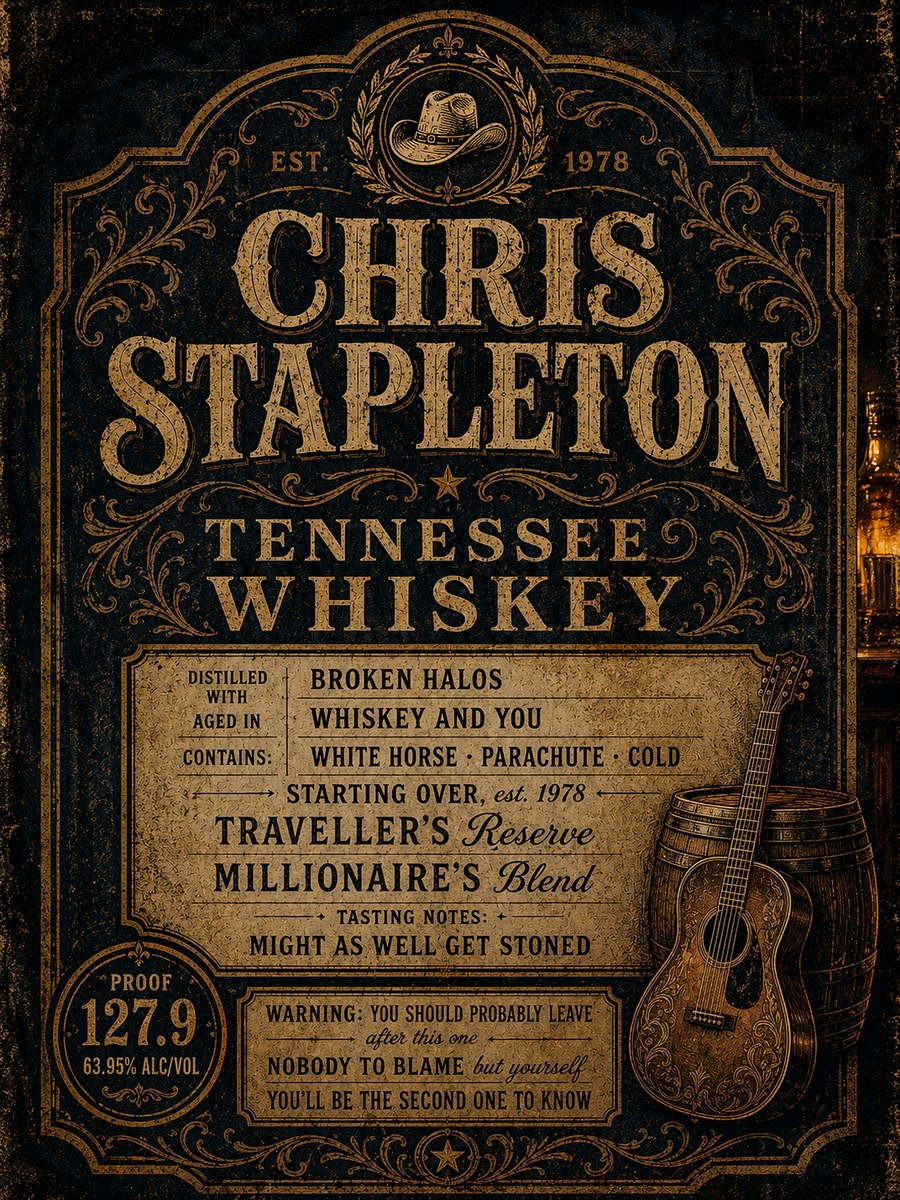
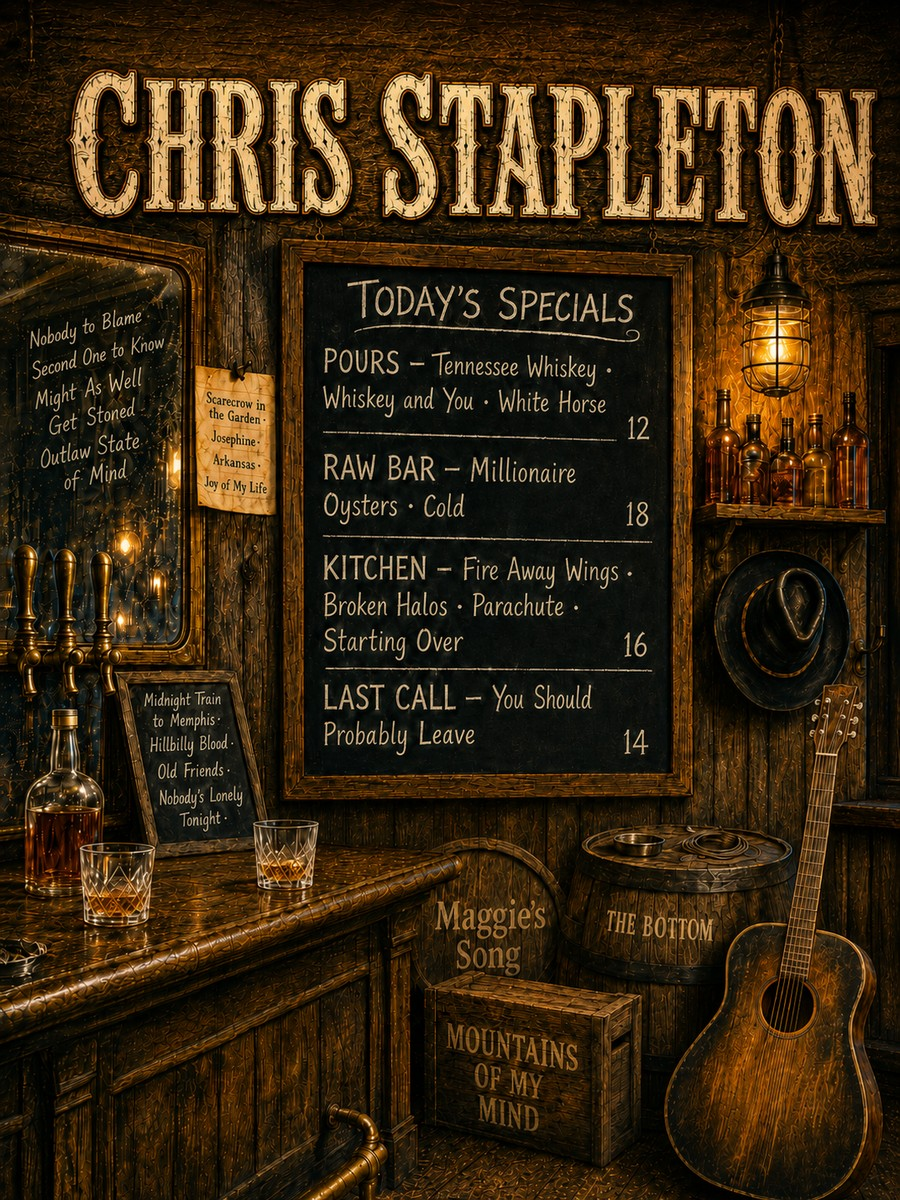
v250: Chris Stapleton is a bar, not a bottle
The strongest finding in the trademark audit, closed. The old poster was drawn
as a whiskey bottle label - brand name over product type, EST. 1978, DISTILLED
WITH / AGED IN / CONTAINS fields, TASTING NOTES, PROOF 127.9 and 63.95% ALC/VOL,
a warning block, and an engraved border wrapping the whole canvas. Every word on
it was a song title and it still read as a Chris Stapleton whiskey, because form
carries meaning content does not override. He has a real one with Buffalo Trace,
and the old poster even carried its brand name: TRAVELLER'S Reserve.

Not editable - the label was 100% of the composition and the panels alone were
32% of the canvas, so subtracting them left a hole with no scene behind it.
Regenerated as a roadhouse bar with a specials board hanging in it. Two things
make that a menu rather than a relabelled label:

  - the board is an OBJECT IN A ROOM. Bar, taps, mirror, bottles, hat, guitar,
    barrel, crate and lamp are all visible around it. A board filling the canvas
    would have been the same problem wearing a different hat.
  - CHRIS STAPLETON is the POSTER's title, painted above and outside the board.
    Lettered onto the menu it would have become his bar, and celebrity bars are
    a real category - the same trap one step sideways.

25 song titles, up from 11, spread over five surfaces so none of them garble:
10 on the board, 4 chalked on the mirror, 4 on a pinned paper card, 4 on a slate
[…]

diff --git a/index.html b/index.html
@@ -911,7 +911,7 @@ function eraOf(v){ return ERA[v.id]||'neon'; }
    page arrives with ?open=, so the lookup returned '0' and every plate URL was busted
    with ?v=0 forever - an updated plate would never reach anyone who had opened that
    sheet once. Kept in step with the printed build tag by the release step. */
-var SFSBUILD='v249';
+var SFSBUILD='v250';
 var CARDART={"adele":{"o":"#F4A330"},"arianagrande":{"o":"#FFF6E0","l":1},"ate":{"o":"#DAA459"},"beatles":{"o":"#FFF6E0","l":1},"beyonce":{"o":"#FDB728"},"biggie":{"o":"#FDC472"},"billieeilish":{"o":"#B9C709"},"billyjoel":{"o":"#DBB17D"},"bonjovi":{"o":"#FFF6E0","l":1},"bowie":{"o":"#F7AF7C"},"brunomars":{"o":"#FEA928"},"carrieunderwood":{"o":"#D9B87A"},"ccr":{"o":"#F2C772"},"chrisstapleton":{"o":"#F2BA7D"},"codyjohnson":{"o":"#85C9EB"},"coldplay":{"o":"#E9BA87"},"dmb":{"o":"#2A1305"},"dualipa":{"o":"#A3ABC1"},"eagles":{"o":"#261C12"},"edsheeran":{"o":"#ECAB84"},"ellalangley":{"o":"#F1987E"},"eminem":{"o":"#D1B99F"},"faithhill":{"o":"#F3A63D"},"fleetwoodmac":{"o":"#BEC5C8"},"foo":{"o":"#F69F6D"},"fthc":{"o":"#3D3717"},"gratefuldead":{"o":"#FFF6E0","l":1},"greenday":{"o":"#CEB799"},"grunge90s":{"o":"#EFC973"},"harrystyles":{"o":"#F99B37"},"hendrix":{"o":"#FFF6E0","l":1},"jasonaldean":{"o":"#EAAE5F"},"jellyroll":{"o":"#301407"},"justintimberlake":{"o":"#B1C1D3"},"katyperry":{"o":"#3DC2D8"},"kennychesney":{"o":"#F6C587"},"kidstoybox":{"o":"#002848"},"ladygaga":{"o":"#FFBD46"},"laineywilson":{"o":"#FFF6E0","l":1},"ledzeppelin":{"o":"#E6AE57"},"lukebryan":{"o":"#332818"},"lukecombs":{"o":"#F19F31"},"maroon5":{"o":"#642F09"},"metallica":{"o":"#EABE95"},"morganwallen":{"o":"#DB9D94"},"mv_action":{"o":"#F0AD51"},"mv_animated":{"o":"#FFF6E0","l":1},"mv_comedy":{"o":"#FFF6E0","l":1},"mv_crime":{"o":"#F0AF37"},"mv_drama":{"o":"#DCA969"},"mv_fantasy":{"o":"#FAAA41"},"mv_horror":{"o":"#DBC27D"},"mv_romance":{"o":"#FFF6E0","l":1},"mv_scifi":{"o":"#26BDF5"},"mv_sports":{"o":"#FFF6E0","l":1},"mv_superhero":{"o":"#1C1B26"},"mv_war":{"o":"#1F150C"},"nirvana":{"o":"#CACACB"},"oasis":{"o":"#DDBA92"},"onedirection":{"o":"#F4A62D"},"pearljam":{"o":"#FFF6E0","l":1},"postmalone":{"o":"#FBA874"},"queen":{"o":"#F1BE78"},"rhcp":{"o":"#FFF6E0","l":1},"rihanna":{"o":"#BBAB97"},"selenagomez":{"o":"#FFF6E0","l":1},"shaboozey":{"o":"#DEB177"},"smashingpumpkins":{"o":"#BCAEC2"},"springsteen":{"o":"#E6A59C"},"stones":{"o":"#FFF6E0","l":1},"stp":{"o":"#FFF6E0","l":1},"summerbeach":{"o":"#FFF6E0","l":1},"taylorswift":{"o":"#D4A26D"},"thewho":{"o":"#F0C382"},"timmcgraw":{"o":"#251C0A"},"tompetty":{"o":"#FFF6E0","l":1},"tv_binge":{"o":"#D9B87A"},"tv_cartoon":{"o":"#171F6C"},"tv_gameshow":{"o":"#000B4D"},"tv_growingup":{"o":"#86B6F7"},"tv_oldschool":{"o":"#D9B87A"},"tv_scifi":{"o":"#66BBF7"},"tv_sitcom":{"o":"#C8AE93"},"u2":{"o":"#7EC0F2"},"zachbryan":{"o":"#191F15"}};
 function coverHTML(v,label){
  var e=eraOf(v);
@@ -1489,4 +1489,4 @@ brandBarState();
  setTimeout(go, 1500);
 })();
 </script>
-<div id="buildtag">v249</div><style>#buildtag{position:fixed;left:5px;bottom:3px;z-index:99999;font:700 9px/1 system-ui,sans-serif;color:rgba(255,255,255,.30);pointer-events:none;letter-spacing:.5px}</style></body></html>
+<div id="buildtag">v250</div><style>#buildtag{position:fixed;left:5px;bottom:3px;z-index:99999;font:700 9px/1 system-ui,sans-serif;color:rgba(255,255,255,.30);pointer-events:none;letter-spacing:.5px}</style></body></html>

diff --git a/sw.js b/sw.js
@@ -1,4 +1,4 @@
-var CACHE='sfs-v249';
+var CACHE='sfs-v250';
 /* IMPORTANT: do NOT precache the HTML documents. If the app shell is cached, an installed PWA
    can launch straight from cache and bypass Cloudflare Access. Keeping only static assets here
    forces every page launch to hit the network, so the Access login is always enforced. */
